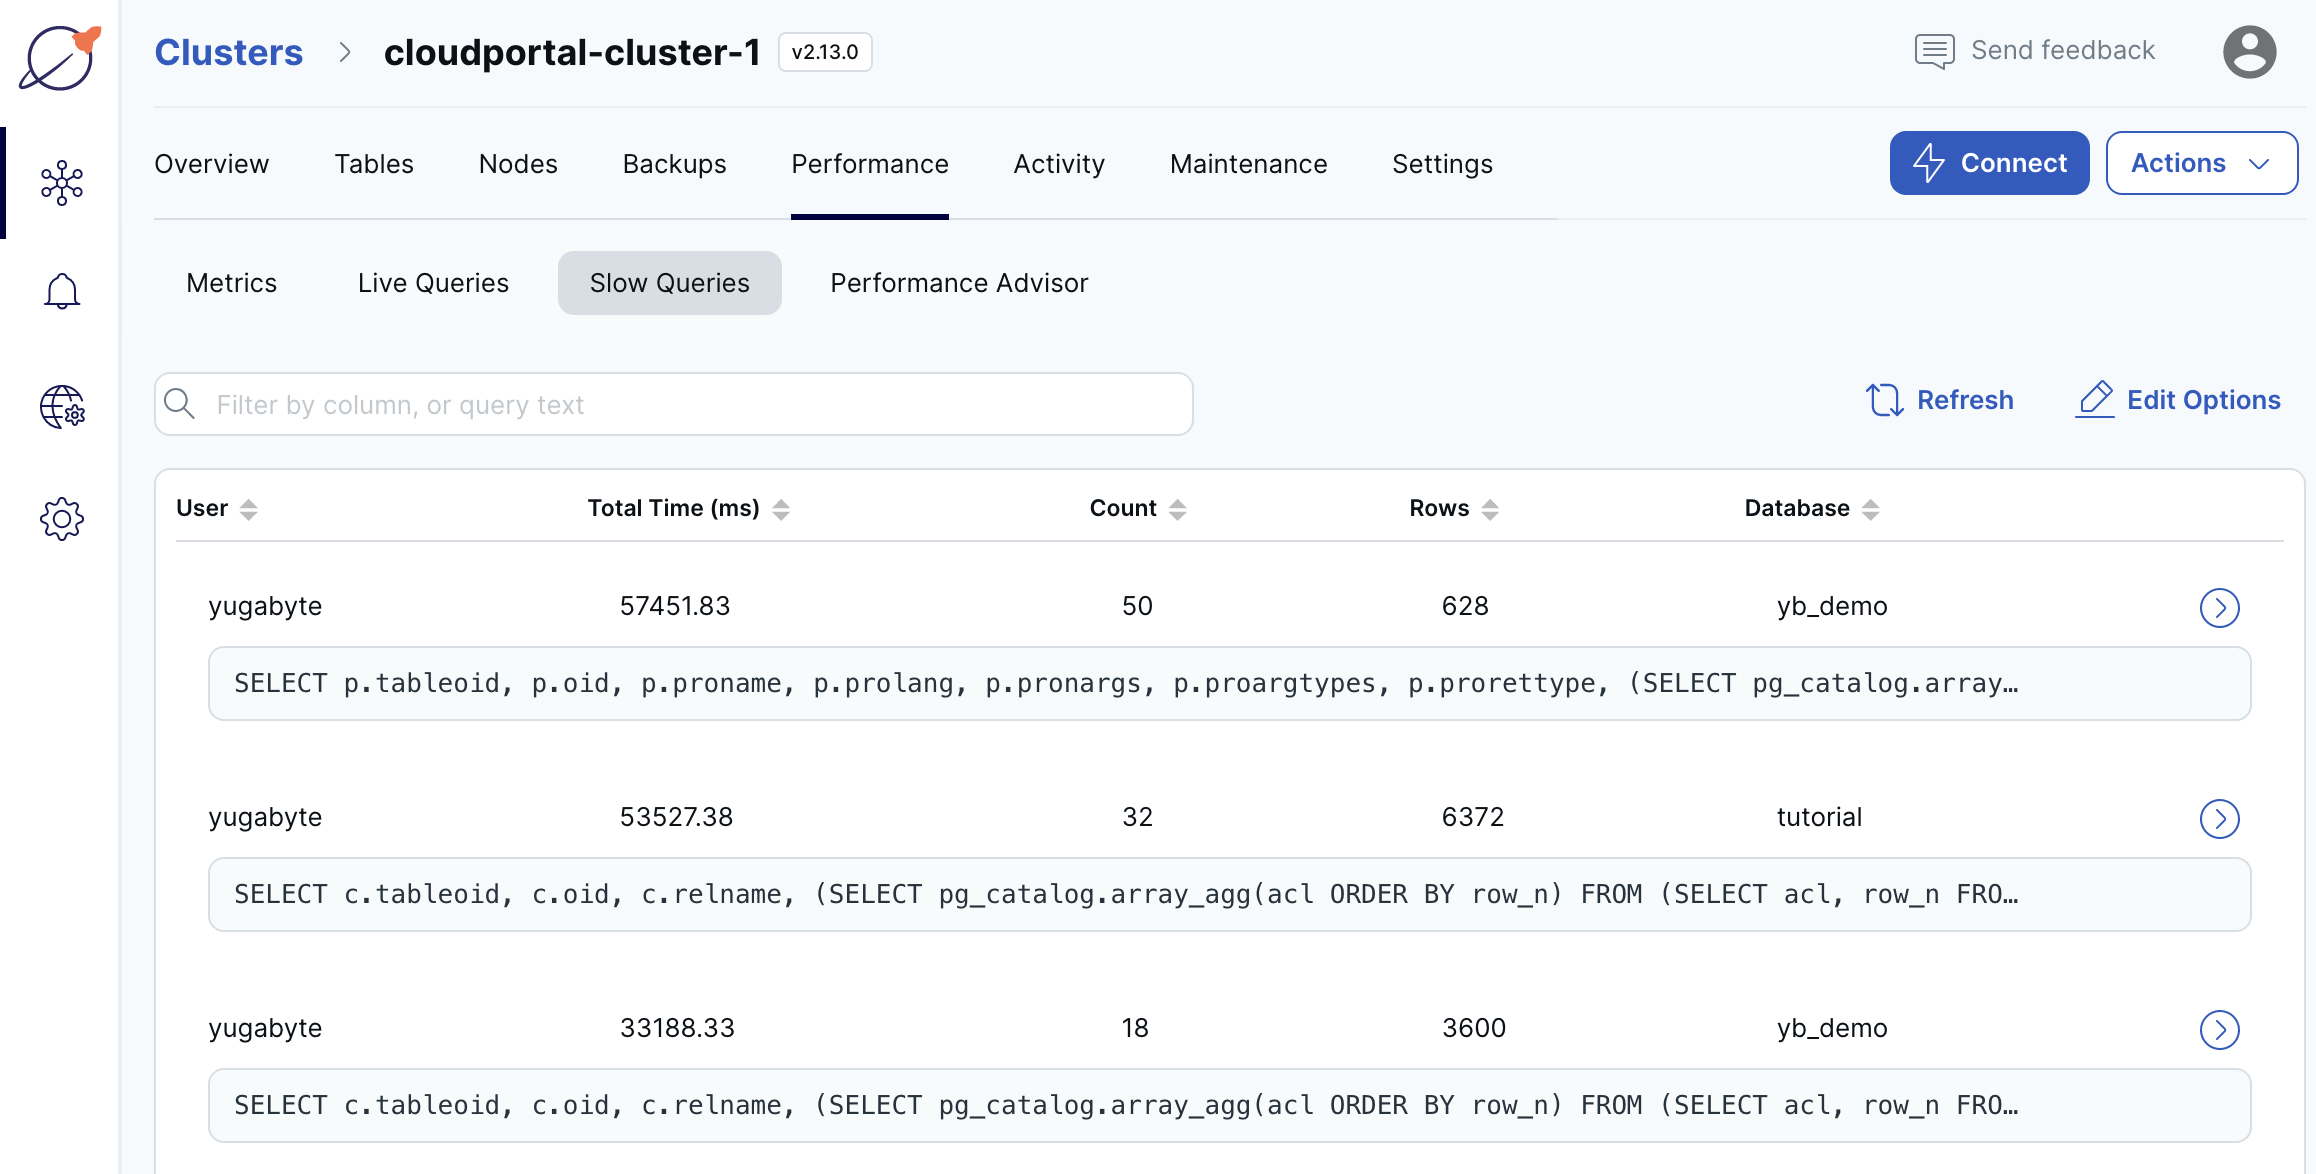
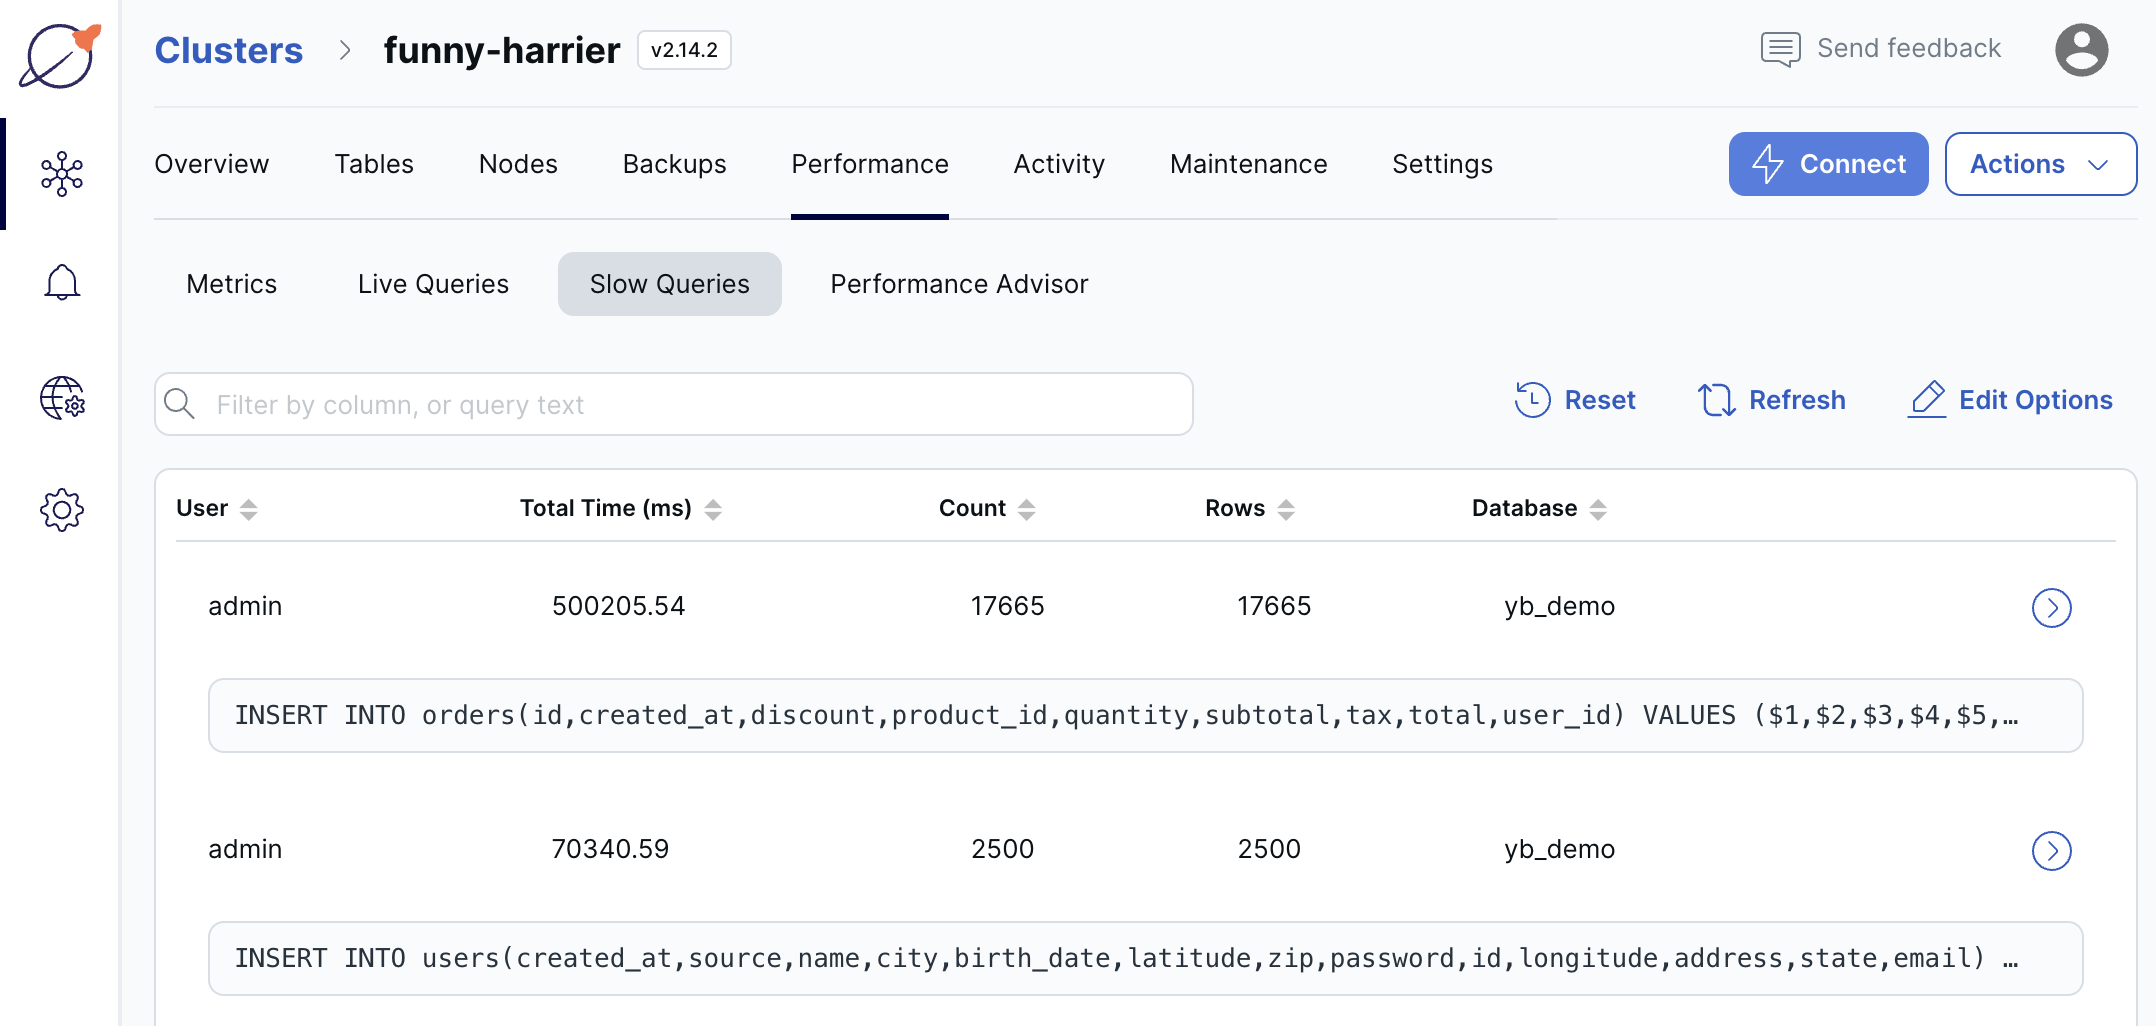
[docs][cloud] Release note for preferred region (#14768)
* Preferred region

* What's new - preferred region

* Update what's new and new screenshot

* review comment

diff --git a/docs/content/preview/yugabyte-cloud/release-notes.md b/docs/content/preview/yugabyte-cloud/release-notes.md
@@ -10,6 +10,14 @@ type: docs
 
 ## Releases
 
+### November 4, 2022
+
+**New Features**
+
+- Ability to reset slow queries for faster debugging of slow-running queries.
+- Ability to set a preferred region to tune the read and write latency for specific regions. Designating one region as preferred can reduce the number of network hops needed to process requests. The preferred region can be assigned during cluster creation, and set or changed after cluster creation.
+- Ability to view details of task progress for cluster edit operations for better monitoring.
+
 ### October 24, 2022
 
 **New Features**

diff --git a/docs/content/preview/yugabyte-cloud/cloud-monitor/cloud-queries-slow.md b/docs/content/preview/yugabyte-cloud/cloud-monitor/cloud-queries-slow.md
@@ -24,6 +24,8 @@ Slow queries are not available for YCQL.
 
 To filter the query list, enter query text in the filter field. To sort the list by column, click the column heading. Click **Edit Options** to select the columns to display.
 
+To reset the slow queries list, click **Reset**.
+
 To view query details, click the right-arrow button for the query in the list to display the **Query Details** sheet.
 
 The following table describes the **Slow Queries** column values.

diff --git a/docs/content/preview/yugabyte-cloud/cloud-monitor/monitor-activity.md b/docs/content/preview/yugabyte-cloud/cloud-monitor/monitor-activity.md
@@ -18,6 +18,8 @@ To review activity for your entire cloud, use the [**Activity** tab](../../cloud
 
 ![Cluster Activity tab](/images/yb-cloud/cloud-clusters-activity.png)
 
+To view cluster activity details, click the activity in the list to display the **Activity Details** sheet.
+
 ## Logged activity
 
 The following table lists the cluster activity that is logged.
